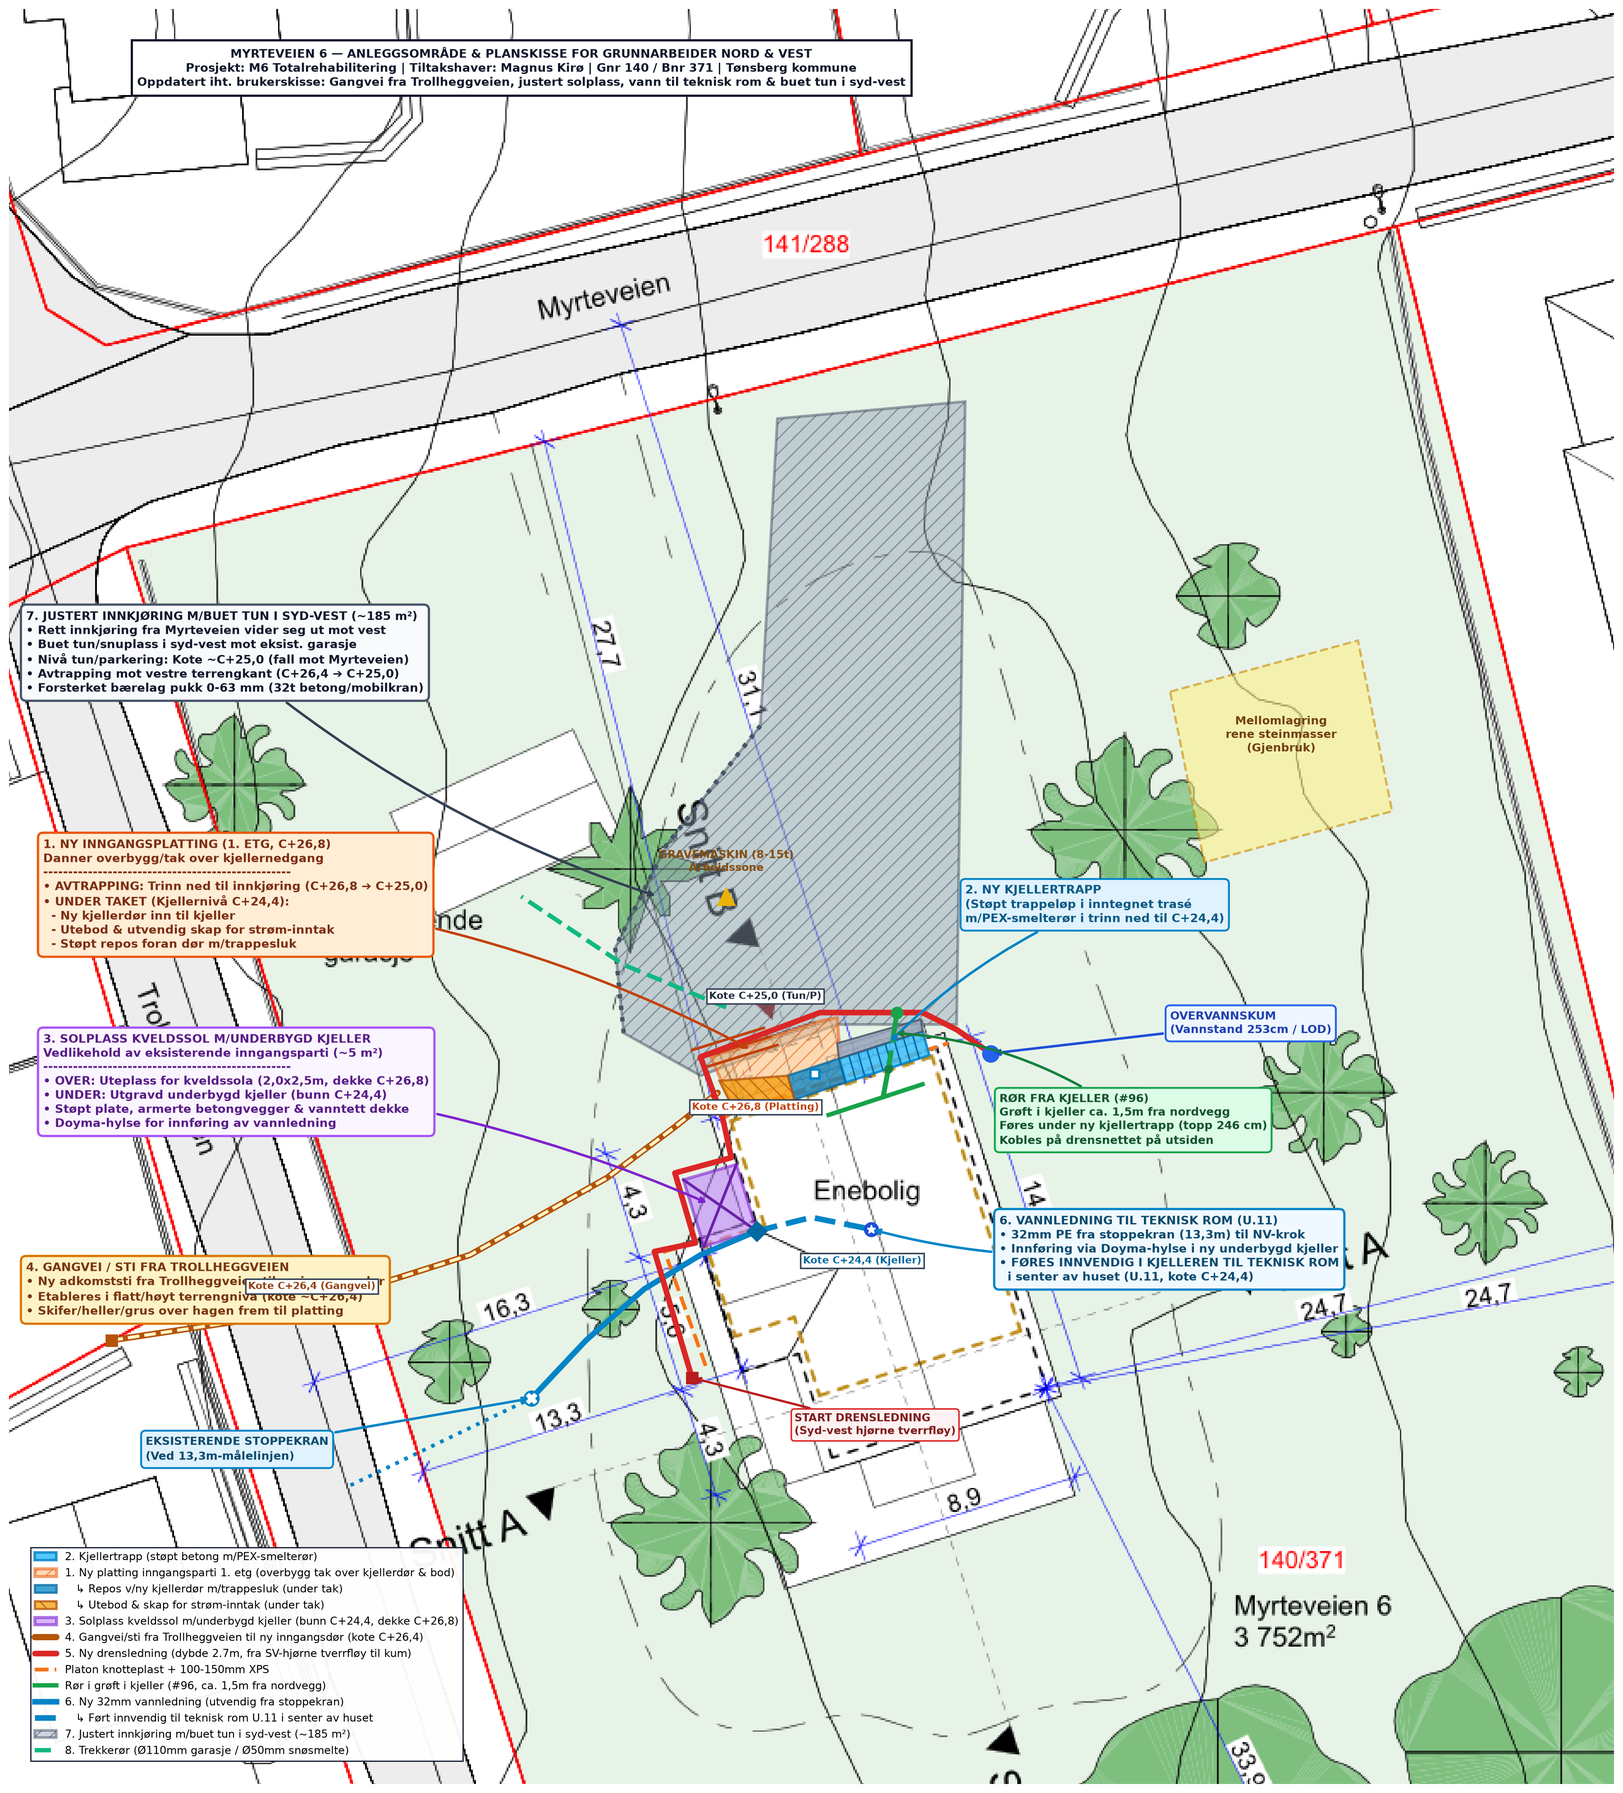
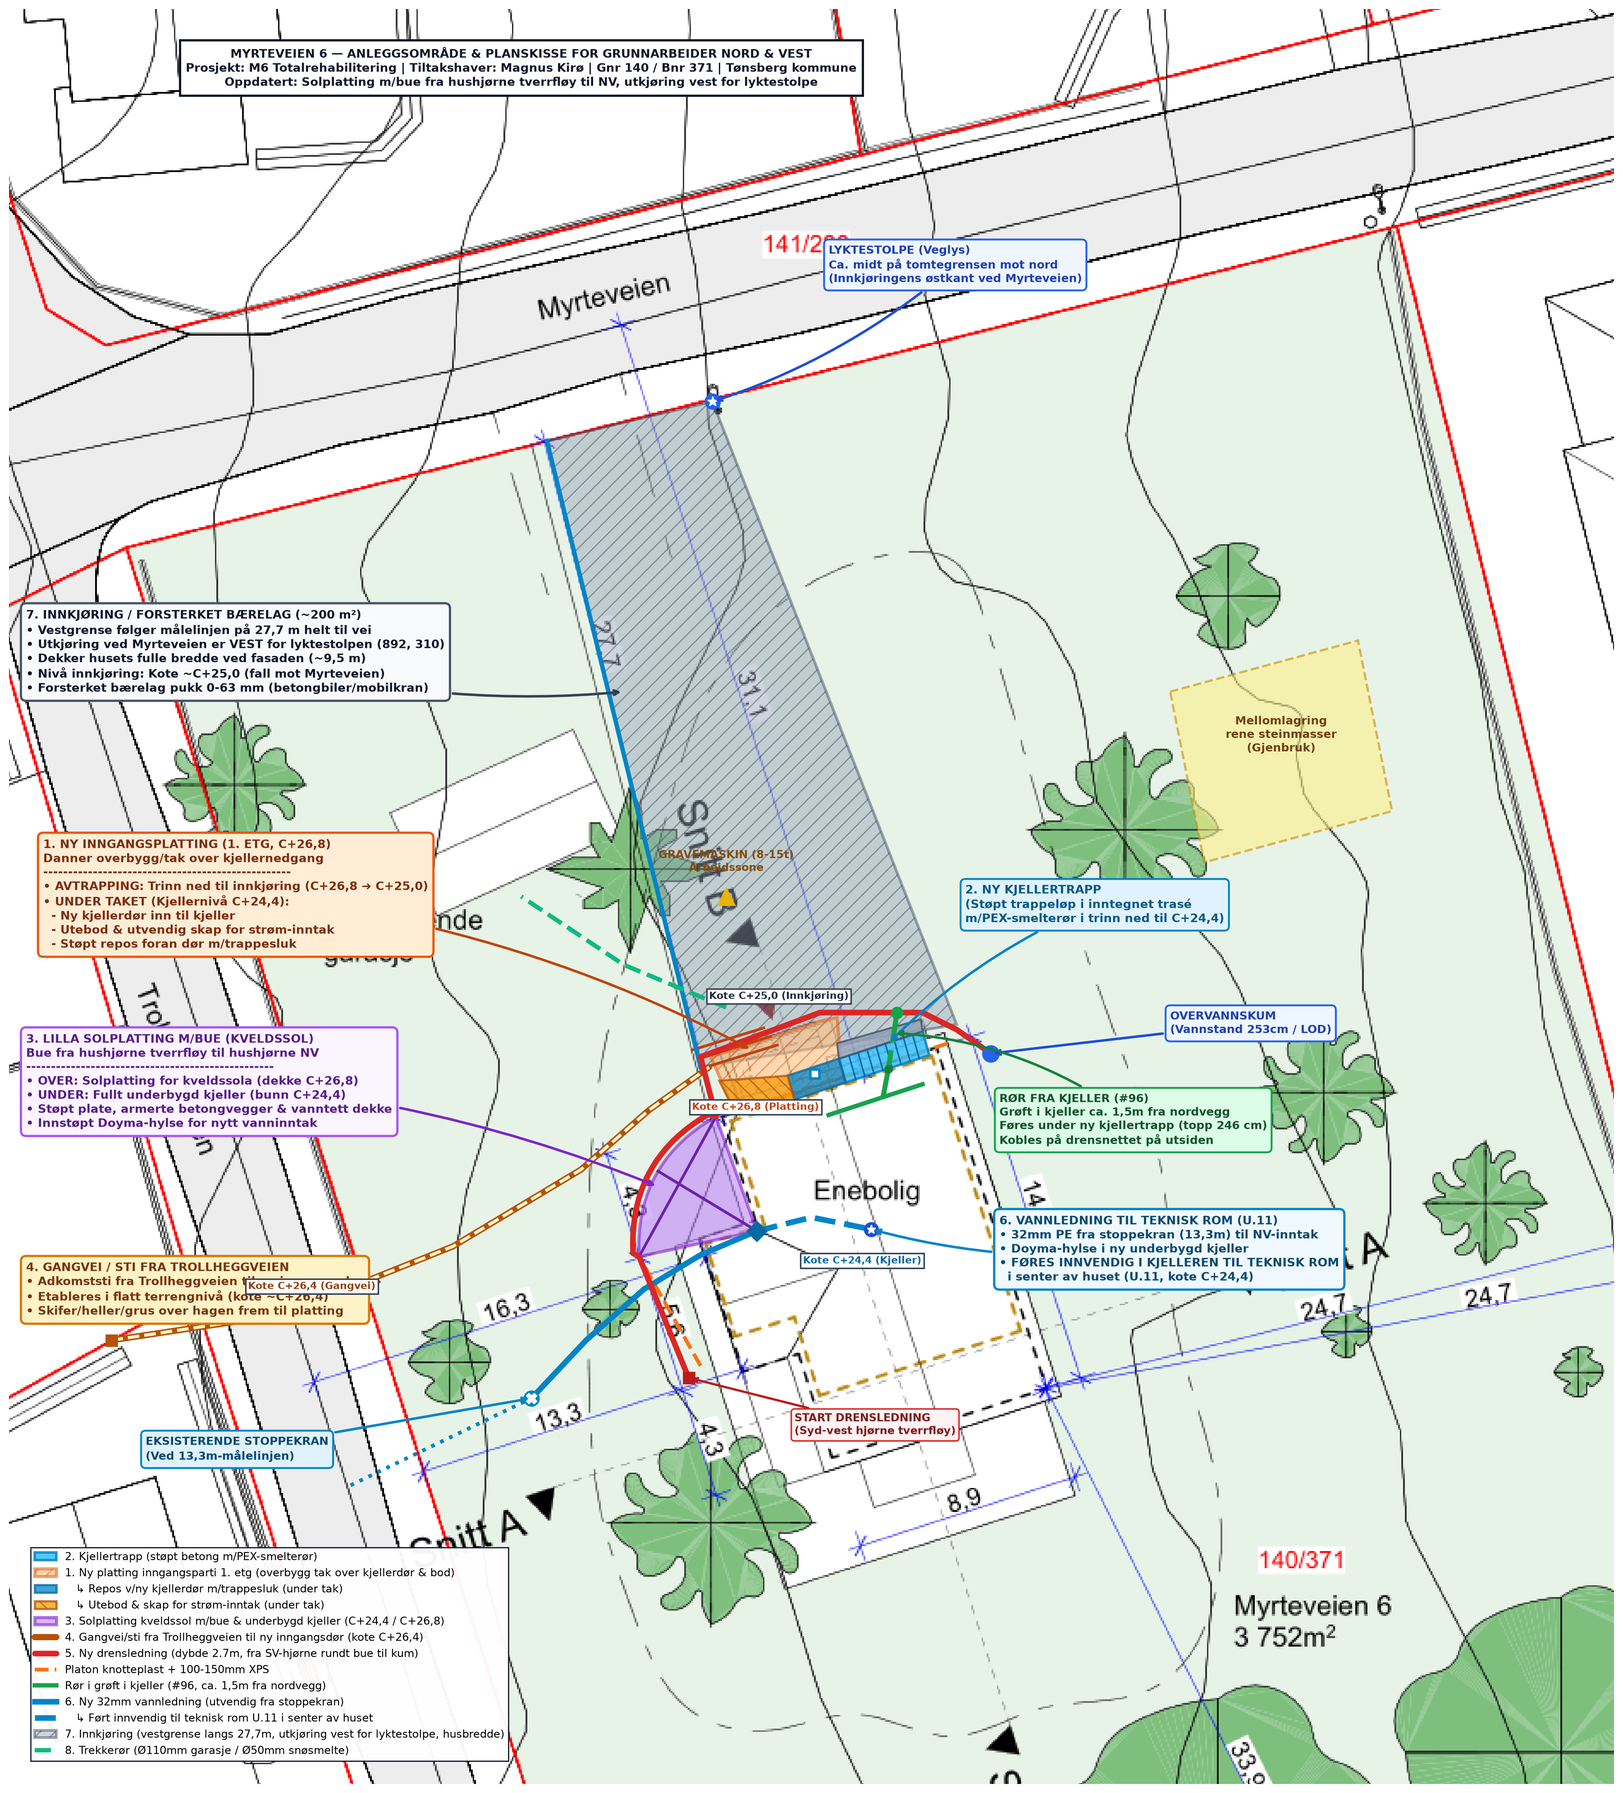
fix(nord): lilla solplatting m/bue fra hushjørne tverrfløy til NV og ren utkjøring vest for lyktestolpe (#92)
- Tegn solplattingen med en myk utadgående bue som spenner fra hushjørnet på tverrfløyen mot vest til hushjørnet nord-vest på hovedhuset
- Juster drensledningen og knotteplast/isolasjon i bue rundt den nye solplattingen
- Gjenopprett ren innkjøringskorridor: vestgrense følger 27,7 m-linjen, utkjøringen ved Myrteveien er vest for lyktestolpen (892, 310) og dekker husets fulle bredde ved fasaden
- Oppdater anbudsbeskrivelse og GitHub Issue #92

diff --git a/scripts/generate_site_plan.py b/scripts/generate_site_plan.py
@@ -46,12 +46,35 @@ for off in range(3):
     ax.plot([888 - off*4, 930 - off*4], [700 - off*5, 687 - off*5], color="#c2410c", lw=2.2, ls="-", zorder=6)
 
 # -------------------------------------------------------------
-# 3. SOLPLASS M/UNDERBYGD KJELLER (NV-KROK) M/KRYSS (X)
+# 3. LILLA SOLPLATTING M/BUE FRA HUSHJØRNE TVERRFLØY TIL HUSHJØRNE NORD-VEST
 # -------------------------------------------------------------
-uteplass_pts = np.array([[918, 796], [887, 805], [875, 766], [906, 757]])
-ax.add_patch(Polygon(uteplass_pts, closed=True, facecolor="#c084fc", edgecolor="#7e22ce", lw=2.5, alpha=0.6, zorder=5, label="3. Solplass kveldssol m/underbygd kjeller (bunn C+24,4, dekke C+26,8)"))
-ax.plot([uteplass_pts[0,0], uteplass_pts[2,0]], [uteplass_pts[0,1], uteplass_pts[2,1]], color="#6b21a8", lw=2.2, zorder=6)
-ax.plot([uteplass_pts[1,0], uteplass_pts[3,0]], [uteplass_pts[1,1], uteplass_pts[3,1]], color="#6b21a8", lw=2.2, zorder=6)
+p_tverr = np.array([849, 811])   # Hushjørnet på tverrfløyen mot vest
+p_nw = np.array([894, 729])      # Hushjørnet nord-vest på hovedhuset
+p_inner = np.array([918, 796])   # Indre hjørne hvor fasadene møtes
+
+# Bue som buer ut mot nord-vest over hagen:
+chord_vec = p_nw - p_tverr
+chord_len = np.linalg.norm(chord_vec)
+normal = np.array([-chord_vec[1], chord_vec[0]]) / chord_len
+if normal[0] > 0:
+    normal = -normal
+
+bulge = 16.0
+ctrl = (p_tverr + p_nw) / 2.0 + normal * bulge * 1.8
+arc_pts = []
+for t in np.linspace(0, 1, 20):
+    pt = (1-t)**2 * p_tverr + 2*(1-t)*t * ctrl + t**2 * p_nw
+    arc_pts.append(pt)
+
+sol_poly_pts = [p_inner, p_tverr] + arc_pts + [p_nw]
+sol_poly = Polygon(sol_poly_pts, closed=True, facecolor="#c084fc", edgecolor="#7e22ce",
+                   lw=2.5, alpha=0.6, zorder=5, label="3. Solplatting kveldssol m/bue & underbygd kjeller (C+24,4 / C+26,8)")
+ax.add_patch(sol_poly)
+
+# Kryss (X) inne i plattingen
+apex_pt = arc_pts[len(arc_pts)//2]
+ax.plot([p_inner[0], apex_pt[0]], [p_inner[1], apex_pt[1]], color="#6b21a8", lw=2.2, zorder=6)
+ax.plot([p_tverr[0], p_nw[0]], [p_tverr[1], p_nw[1]], color="#6b21a8", lw=2.2, zorder=6)
 
 # -------------------------------------------------------------
 # 4. GANGVEI / STI FRA TROLLHEGGVEIEN
@@ -59,27 +82,27 @@ ax.plot([uteplass_pts[1,0], uteplass_pts[3,0]], [uteplass_pts[1,1], uteplass_pts
 gangvei_pts = np.array([
     [540, 860],
     [640, 845],
-    [750, 810],
-    [830, 765],
-    [870, 735],
-    [895, 715]
+    [740, 805],
+    [815, 760],
+    [855, 725],
+    [890, 700]
 ])
 ax.plot(gangvei_pts[:,0], gangvei_pts[:,1], color="#b45309", lw=5, solid_capstyle="round", zorder=7, label="4. Gangvei/sti fra Trollheggveien til ny inngangsdør (kote C+26,4)")
 ax.plot(gangvei_pts[:,0], gangvei_pts[:,1], color="#fef3c7", lw=2.5, ls="--", zorder=8)
 ax.plot(540, 860, marker="s", markersize=9, color="#b45309", zorder=9)
 
 # -------------------------------------------------------------
-# 5. DRENERING (FRA SV-HJØRNE TVERRFLØY TIL OVERVANNSKUM)
+# 5. DRENERING (FRA SV-HJØRNE TVERRFLØY, RUNDT SOLPLATTINGENS BUE, TIL OVERVANNSKUM)
 # -------------------------------------------------------------
-dren_pts = [
-    [880, 882], [858, 808], [882, 803], [870, 762], [903, 753],
-    [898, 730], [885, 694], [955, 668], [1015, 668], [1035, 678], [1055, 692]
-]
+dren_arc = [pt + normal * 4.0 for pt in arc_pts]
+dren_pts = [[878, 882], p_tverr] + dren_arc + [p_nw, [885, 694], [955, 668], [1015, 668], [1035, 678], [1055, 692]]
 dx = [p[0] for p in dren_pts]
 dy = [p[1] for p in dren_pts]
-ax.plot(dx, dy, color="#dc2626", lw=4.5, solid_capstyle="round", zorder=8, label="5. Ny drensledning (dybde 2.7m, fra SV-hjørne tverrfløy til kum)")
-ax.plot(880, 882, marker="s", markersize=9, color="#b91c1c", zorder=10)
-membrane_pts = [[888, 875], [864, 808], [882, 803], [870, 762], [903, 753], [898, 730], [905, 726], [1030, 686]]
+ax.plot(dx, dy, color="#dc2626", lw=4.5, solid_capstyle="round", zorder=8, label="5. Ny drensledning (dybde 2.7m, fra SV-hjørne rundt bue til kum)")
+ax.plot(878, 882, marker="s", markersize=9, color="#b91c1c", zorder=10)
+
+# Knotteplast langs murene
+membrane_pts = [[885, 875], p_tverr] + dren_arc + [p_nw, [905, 726], [1030, 686]]
 ax.plot([p[0] for p in membrane_pts], [p[1] for p in membrane_pts], color="#f97316", lw=3, ls="--", zorder=5, label="Platon knotteplast + 100-150mm XPS")
 
 # Rør fra kjeller (#96)
@@ -108,25 +131,33 @@ ax.plot(985, 795, marker="o", markersize=11, color="#1d4ed8", zorder=10)
 ax.plot(985, 795, marker="*", markersize=7, color="#ffffff", zorder=11)
 
 # -------------------------------------------------------------
-# 7. JUSTERT INNKJØRING M/BUET TUN I SYD-VEST
+# 7. INNKJØRING (VESTGRENSE LANGS 27,7M, UTKJØRING VEST FOR LYKTESTOLPE, HUSBREDDE)
 # -------------------------------------------------------------
 driveway_pts = np.array([
-    [1040, 310],
-    [1035, 675],
-    [965, 675],
-    [885, 705],
-    [840, 680],
-    [835, 630],
-    [865, 570],
-    [920, 500],
-    [930, 320]
+    [885, 700],   # Vestkant ved inngangsplatting / fasade (møter 27,7m-linjen)
+    [795, 333],   # Vestgrense ved Myrteveien (langs 27,7m målelinjen)
+    [892, 310],   # Østgrense ved Myrteveien: Lyktestolpe ca. midt på tomtegrensen
+    [1035, 675]   # Østkant ved kjellertrapp / husets nordøsthjørne (husets fulle bredde)
 ])
 drive_poly = Polygon(driveway_pts, closed=True, facecolor="#94a3b8", edgecolor="#334155",
-                     lw=2.2, alpha=0.45, hatch="//", zorder=3, label="7. Justert innkjøring m/buet tun i syd-vest (~185 m²)")
+                     lw=2.2, alpha=0.45, hatch="//", zorder=3,
+                     label="7. Innkjøring (vestgrense langs 27,7m, utkjøring vest for lyktestolpe, husbredde)")
 ax.add_patch(drive_poly)
 
-# Terrengavtrapping langs vestkant tun
-ax.plot([840, 835, 865, 920], [680, 630, 570, 500], color="#475569", lw=3.5, ls=":", zorder=4)
+# Marker vestgrensen spesifikt langs 27,7m målelinjen
+ax.plot([885, 795], [700, 333], color="#0284c7", lw=3.5, ls="-", zorder=6)
+
+# Lyktestolpe ca. midt på tomtegrensen mot nord (892, 310)
+ax.plot(892, 310, marker="o", markersize=12, color="#2563eb", zorder=12)
+ax.plot(892, 310, marker="*", markersize=8, color="#ffffff", zorder=13)
+ax.annotate(
+    "LYKTESTOLPE (Veglys)\nCa. midt på tomtegrensen mot nord\n(Innkjøringens østkant ved Myrteveien)",
+    xy=(892, 310), xytext=(960, 240),
+    arrowprops=dict(arrowstyle="->", color="#1d4ed8", lw=2, connectionstyle="arc3,rad=-0.1"),
+    fontsize=9, weight="bold", color="#1e40af",
+    bbox=dict(boxstyle="round,pad=0.4", fc="#eff6ff", ec="#2563eb", lw=1.5),
+    zorder=14
+)
 
 # -------------------------------------------------------------
 # 8. TREKKERØR & INFRASTRUKTUR
@@ -170,16 +201,16 @@ ax.annotate(
     zorder=12
 )
 
-# 3. Solplass m/kryss
+# 3. Solplatting m/bue
 ax.annotate(
-    "3. SOLPLASS KVELDSSOL M/UNDERBYGD KJELLER\n"
-    "Vedlikehold av eksisterende inngangsparti (~5 m²)\n"
+    "3. LILLA SOLPLATTING M/BUE (KVELDSSOL)\n"
+    "Bue fra hushjørne tverrfløy til hushjørne NV\n"
     "--------------------------------------------------\n"
-    "• OVER: Uteplass for kveldssola (2,0x2,5m, dekke C+26,8)\n"
-    "• UNDER: Utgravd underbygd kjeller (bunn C+24,4)\n"
+    "• OVER: Solplatting for kveldssola (dekke C+26,8)\n"
+    "• UNDER: Fullt underbygd kjeller (bunn C+24,4)\n"
     "• Støpt plate, armerte betongvegger & vanntett dekke\n"
-    "• Doyma-hylse for innføring av vannledning",
-    xy=(890, 780), xytext=(500, 735),
+    "• Innstøpt Doyma-hylse for nytt vanninntak",
+    xy=(860, 770), xytext=(490, 735),
     arrowprops=dict(arrowstyle="->", color="#7e22ce", lw=2, connectionstyle="arc3,rad=-0.08"),
     fontsize=9.2, weight="bold", color="#581c87",
     bbox=dict(boxstyle="round,pad=0.45", fc="#faf5ff", ec="#a855f7", lw=1.8),
@@ -189,8 +220,8 @@ ax.annotate(
 # 4. Gangvei
 ax.annotate(
     "4. GANGVEI / STI FRA TROLLHEGGVEIEN\n"
-    "• Ny adkomststi fra Trollheggveien til ny inngangsdør\n"
-    "• Etableres i flatt/høyt terrengnivå (kote ~C+26,4)\n"
+    "• Adkomststi fra Trollheggveien til ny inngangsdør\n"
+    "• Etableres i flatt terrengnivå (kote ~C+26,4)\n"
     "• Skifer/heller/grus over hagen frem til platting",
     xy=(700, 825), xytext=(490, 845),
     arrowprops=dict(arrowstyle="->", color="#b45309", lw=2, connectionstyle="arc3,rad=0.1"),
@@ -202,7 +233,7 @@ ax.annotate(
 # 5. Dren start
 ax.annotate(
     "START DRENSLEDNING\n(Syd-vest hjørne tverrfløy)",
-    xy=(880, 882), xytext=(940, 915),
+    xy=(878, 882), xytext=(940, 915),
     arrowprops=dict(arrowstyle="->", color="#b91c1c", lw=1.8),
     fontsize=8.5, weight="bold", color="#7f1d1d",
     bbox=dict(boxstyle="round,pad=0.3", fc="#fef2f2", ec="#dc2626", lw=1.2),
@@ -212,8 +243,8 @@ ax.annotate(
 # 6. Vannledning & Teknisk rom
 ax.annotate(
     "6. VANNLEDNING TIL TEKNISK ROM (U.11)\n"
-    "• 32mm PE fra stoppekran (13,3m) til NV-krok\n"
-    "• Innføring via Doyma-hylse i ny underbygd kjeller\n"
+    "• 32mm PE fra stoppekran (13,3m) til NV-inntak\n"
+    "• Doyma-hylse i ny underbygd kjeller\n"
     "• FØRES INNVENDIG I KJELLEREN TIL TEKNISK ROM\n"
     "  i senter av huset (U.11, kote C+24,4)",
     xy=(985, 795), xytext=(1060, 825),
@@ -232,15 +263,15 @@ ax.annotate(
     zorder=12
 )
 
-# 7. Innkjøring m/buet tun
+# 7. Innkjøring
 ax.annotate(
-    "7. JUSTERT INNKJØRING M/BUET TUN I SYD-VEST (~185 m²)\n"
-    "• Rett innkjøring fra Myrteveien vider seg ut mot vest\n"
-    "• Buet tun/snuplass i syd-vest mot eksist. garasje\n"
-    "• Nivå tun/parkering: Kote ~C+25,0 (fall mot Myrteveien)\n"
-    "• Avtrapping mot vestre terrengkant (C+26,4 ➔ C+25,0)\n"
-    "• Forsterket bærelag pukk 0-63 mm (32t betong/mobilkran)",
-    xy=(860, 600), xytext=(490, 480),
+    "7. INNKJØRING / FORSTERKET BÆRELAG (~200 m²)\n"
+    "• Vestgrense følger målelinjen på 27,7 m helt til vei\n"
+    "• Utkjøring ved Myrteveien er VEST for lyktestolpen (892, 310)\n"
+    "• Dekker husets fulle bredde ved fasaden (~9,5 m)\n"
+    "• Nivå innkjøring: Kote ~C+25,0 (fall mot Myrteveien)\n"
+    "• Forsterket bærelag pukk 0-63 mm (betongbiler/mobilkran)",
+    xy=(840, 480), xytext=(490, 480),
     arrowprops=dict(arrowstyle="->", color="#334155", lw=2, connectionstyle="arc3,rad=0.1"),
     fontsize=9.2, weight="bold", color="#0f172a",
     bbox=dict(boxstyle="round,pad=0.45", fc="#f8fafc", ec="#475569", lw=1.8),
@@ -273,7 +304,7 @@ ax.annotate(
 # Høydenivå-merkelapper (Koter)
 kote_props = dict(boxstyle="square,pad=0.25", fc="#ffffff", ec="#334155", lw=1.2)
 ax.text(880, 725, "Kote C+26,8 (Platting)", fontsize=8, weight="bold", color="#c2410c", bbox=kote_props, zorder=14)
-ax.text(890, 660, "Kote C+25,0 (Tun/P)", fontsize=8, weight="bold", color="#1e293b", bbox=kote_props, zorder=14)
+ax.text(890, 660, "Kote C+25,0 (Innkjøring)", fontsize=8, weight="bold", color="#1e293b", bbox=kote_props, zorder=14)
 ax.text(945, 815, "Kote C+24,4 (Kjeller)", fontsize=8, weight="bold", color="#0369a1", bbox=kote_props, zorder=14)
 ax.text(620, 830, "Kote C+26,4 (Gangvei)", fontsize=8, weight="bold", color="#92400e", bbox=kote_props, zorder=14)
 
@@ -282,7 +313,7 @@ title_box = dict(boxstyle="square,pad=0.5", fc="#ffffff", ec="#0f172a", lw=1.8)
 title_str = (
     "MYRTEVEIEN 6 — ANLEGGSOMRÅDE & PLANSKISSE FOR GRUNNARBEIDER NORD & VEST\n"
     "Prosjekt: M6 Totalrehabilitering | Tiltakshaver: Magnus Kirø | Gnr 140 / Bnr 371 | Tønsberg kommune\n"
-    "Oppdatert iht. brukerskisse: Gangvei fra Trollheggveien, justert solplass, vann til teknisk rom & buet tun i syd-vest"
+    "Oppdatert: Solplatting m/bue fra hushjørne tverrfløy til NV, utkjøring vest for lyktestolpe"
 )
 ax.text(780, 125, title_str, fontsize=9.2, weight="bold", color="#0f172a", ha="center", bbox=title_box, zorder=15)
 
@@ -297,4 +328,4 @@ out_path_brain = "C:/Users/magkir/.gemini/antigravity/brain/773222c6-8706-4aad-8
 
 plt.savefig(out_path_repo, dpi=200, bbox_inches="tight")
 plt.savefig(out_path_brain, dpi=200, bbox_inches="tight")
-print("Successfully generated comprehensive updated site plan!")
+print("Successfully generated updated site plan with curved solplatting and clean driveway!")

diff --git a/docs/ANBUDSFORESPORSEL_GRUNNARBEIDER_NORD.md b/docs/ANBUDSFORESPORSEL_GRUNNARBEIDER_NORD.md
@@ -17,12 +17,12 @@ Eiendommen Myrteveien 6 gjennomgår en helhetlig totalrehabilitering. På nordsi
    - Utebod
    - Utvendig skap for strøminntak
    - Støpt repos foran kjellerdør med trappesluk
-   - Utvendig avtrapping (trinn) ned fra inngangsplattingen (kote C+26,8) til det lavere tunet/innkjøringen (kote C+25,0)
+   - Utvendig avtrapping (trinn) ned fra inngangsplattingen (kote C+26,8) til det lavere nivået for innkjøringen (kote C+25,0)
 3. **Kjellertrapp (iht. A-100PS, A-201PS & A-001):** Plasstøpt betongtrapp og vanger ned langs nordveggen til kote **C+24,4** (repos under inngangsplattingen), inkludert trappesluk og vannbårne snøsmelterør (PEX) i trinnene.
-4. **Solplass for kveldssola med underbygd kjeller (NV-krok):** I vinkelen mellom tverrfløyen og inngangsplattingen etableres en uteplass for kveldssola (ca. **2,0 m mot vest × 2,5 m mot nord = 5,0 m²** fotavtrykk) med fullt underbygd kjeller (markert med kryss `X` på planskisse).
+4. **Lilla solplatting for kveldssola m/bue og underbygd kjeller (NV-krok):** I vinkelen mellom tverrfløyen og hovedhuset etableres en solplatting med **utadgående bue som spenner fra hushjørnet på tverrfløyen over til hushjørnet nord-vest på hovedhuset** med fullt underbygd kjeller (markert med kryss `X` på planskisse).
    - Dette tiltaket erstatter og formaliserer dagens eksisterende inngangsparti (vedlikehold).
-   - Kjeller underbygges ned til kote **C+24,4** med komprimert pukksåle, støpt bunnplate, armerte betongvegger mot terreng (ca. 4,5 lm) og et vanntett, støpt betongdekke (gulv for uteplass over på kote ~C+26,8).
-   - Den nye drensledningen og knotteplast/XPS føres rundt ytterveggene på dette nye kjellerrommet.
+   - Kjeller underbygges ned til kote **C+24,4** med komprimert pukksåle, støpt bunnplate, armerte betongvegger mot terreng og et vanntett, støpt betongdekke (solplatting over på kote ~C+26,8).
+   - Den nye drensledningen og knotteplast/XPS føres i bue rundt ytterveggene på dette nye kjellerrommet.
 5. **Ny gangvei / sti fra Trollheggveien til ny inngangsdør:**
    - Etablering av ny gangsti (ca. 25 lm) fra vestre tomtegrense mot Trollheggveien, over hagearealet og frem til den nye inngangsdøren i 1. etg.
    - Stien etableres i det øvre, naturlige terrengnivået på kote **~C+26,4**.
@@ -31,10 +31,9 @@ Eiendommen Myrteveien 6 gjennomgår en helhetlig totalrehabilitering. På nordsi
    - Ny **32 mm PE-vannledning** kobles på denne stoppekranen og føres nordover til det indre nordvest-hjørnet (NV-krok).
    - Ledningen tas inn i den nye underbygde kjelleren via vanntett **Doyma-hylsegjennomføring**.
    - **Innvendig føring:** Ledningen føres videre innvendig i kjelleren gjennom underbygd kjellerrom (U.02) og rett inn til **Teknisk rom (U.11)** i senter av huset (kote C+24,4).
-7. **Justert innkjøring med buet tun i syd-vest (~185 m²):**
-   - Rett adkomstvei inn fra Myrteveien, som vider seg ut mot vest foran huset og danner et romslig, buet tun / snuplass / biloppstillingsplass i syd-vest mot eksisterende garasje.
-   - Nivå tun/parkering: Kote **~C+25,0** (med svakt fall ut mot Myrteveien C+24,8).
-   - Terrengavtrapping/skråning langs vestkanten av tunet mot den høyere hagen (C+26,4 ➔ C+25,0).
+7. **Innkjøring & riggområde fra Myrteveien (~200 m²):**
+   - **Trasé:** Vestgrensen følger målelinjen på 27,7 m helt ut til Myrteveien. Utkjøringen ved Myrteveien ligger **vest for eksisterende lyktestolpe** (ca. midt på tomtegrensen mot nord). Ved fasaden dekker innkjøringen husets fulle bredde (~9,5 m inkl. kjellertrapp).
+   - Nivå innkjøring: Kote **~C+25,0** (med svakt fall ut mot Myrteveien C+24,8).
    - Det etableres forsterket bærelag (fiberduk N3 + 0–63 mm pukk) for tung anleggstrafikk (betong- og kranbiler).
 
 Det bes om fastpris / regulerbare enhetspriser per post basert på dette underlaget.
